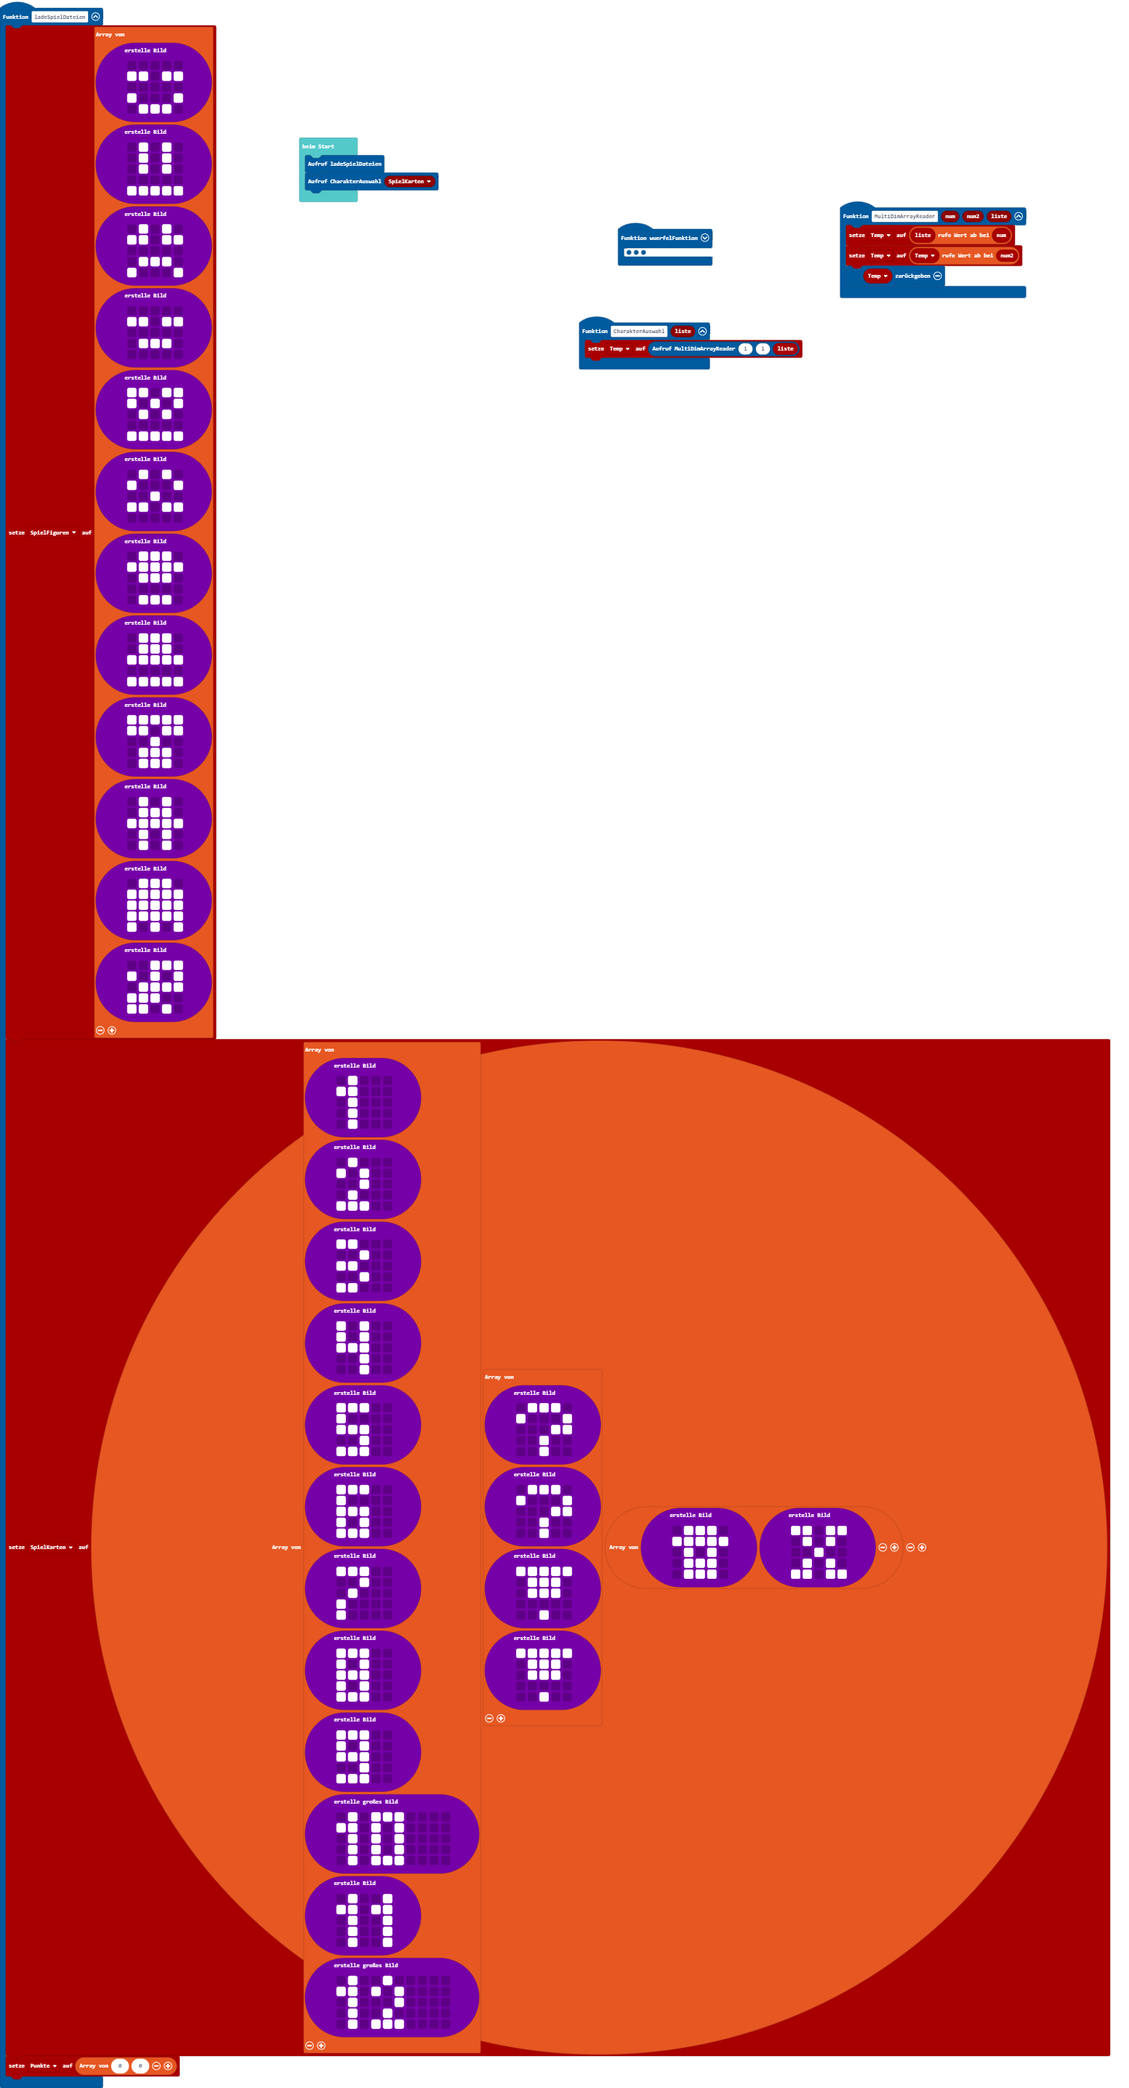
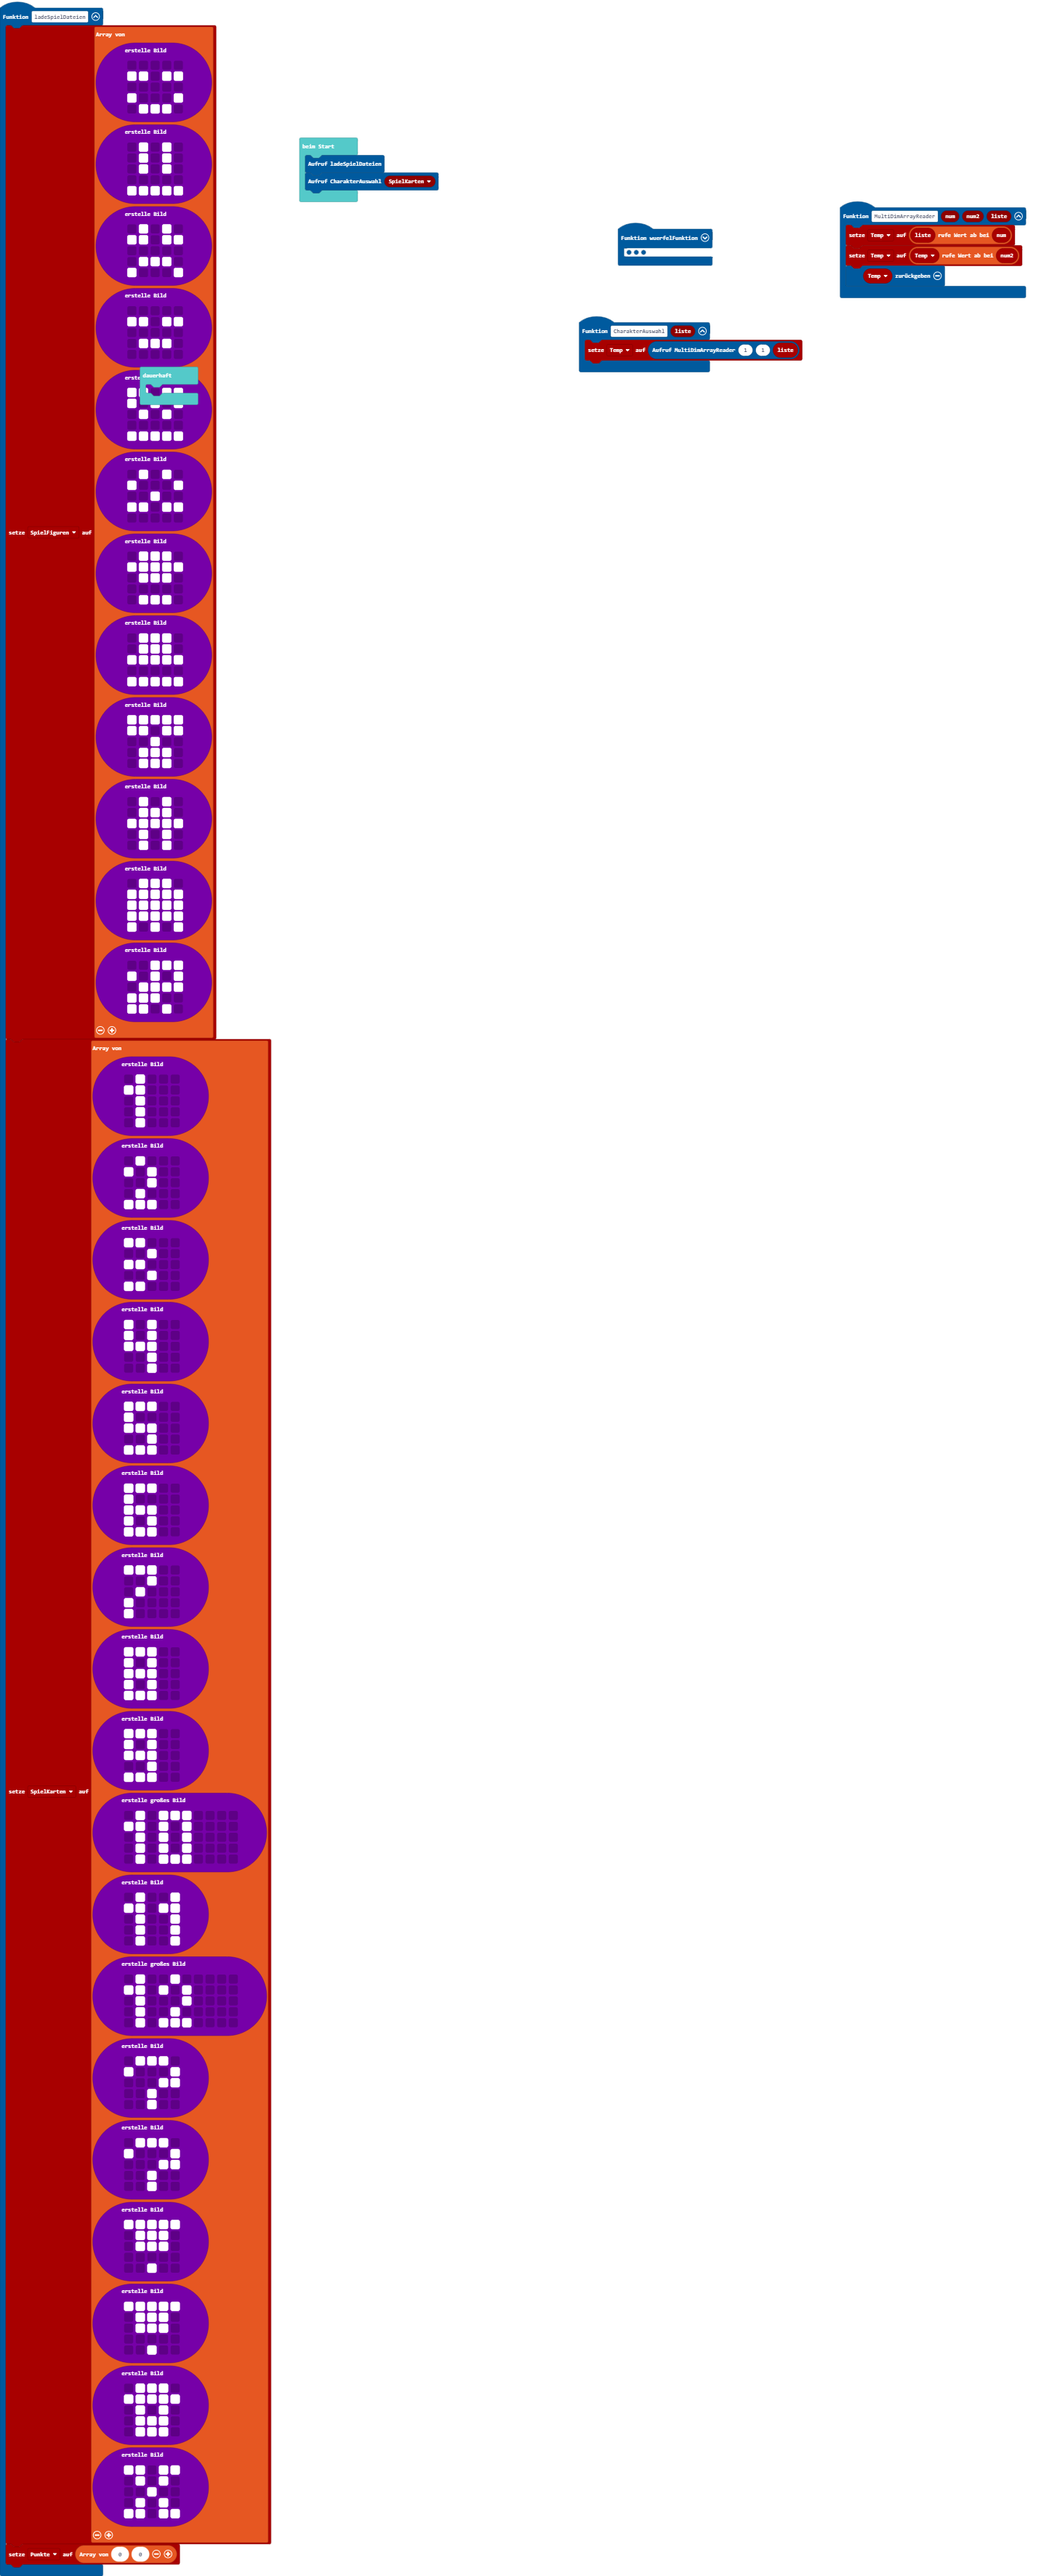
Aktualisiere main.blocks, main.ts

diff --git a/main.ts b/main.ts
@@ -88,7 +88,7 @@ function ladeSpielDateien () {
         # # . # .
         `)
     ]
-    SpielKarten = [[
+    SpielKarten = [
     images.createImage(`
         . # . . .
         # # . . .
@@ -172,8 +172,7 @@ function ladeSpielDateien () {
         . # . . . # . . . .
         . # . . # . . . . .
         . # . # # # . . . .
-        `)
-    ], [
+        `),
     images.createImage(`
         . # # # .
         # . . . #
@@ -201,20 +200,22 @@ function ladeSpielDateien () {
         . # # # .
         . . . . .
         . . # . .
-        `)
-    ], [images.createImage(`
+        `),
+    images.createImage(`
         . # # # .
         # # # # #
         . # . # .
         . # # # .
         . # # # .
-        `), images.createImage(`
+        `),
+    images.createImage(`
         # # . # #
         . # . # .
         . . # . .
         . # . # .
         # # . # #
-        `)]]
+        `)
+    ]
     Punkte = [0, 0]
 }
 function wuerfelFunktion () {
@@ -230,7 +231,7 @@ let AugenZahlWürfel: number[] = []
 let Punkte: number[] = []
 let SpielFiguren: Image[] = []
 let Temp: any = null
-let SpielKarten: Image[][] = []
+let SpielKarten: Image[] = []
 ladeSpielDateien()
 CharakterAuswahl(SpielKarten)
 basic.forever(function () {
